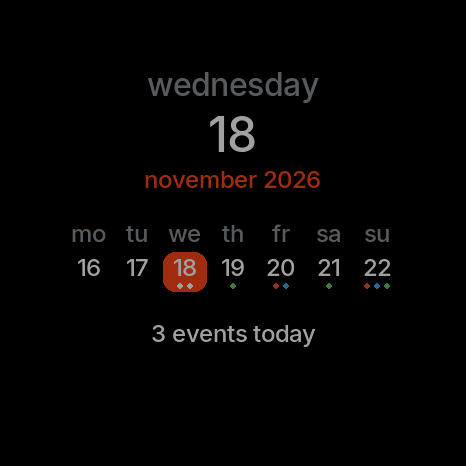
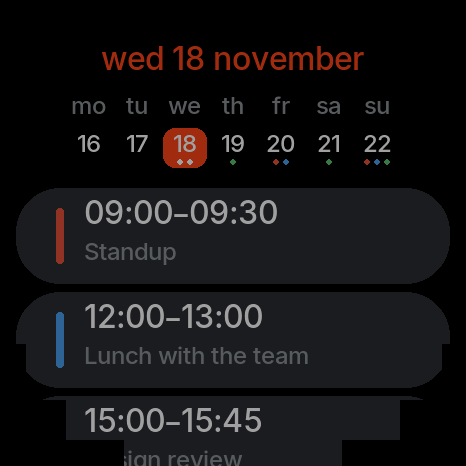
Calendar: the page lists the picked day's events under this week; chevrons smaller and on the title's line
Claude-Session: https://claude.ai/code/session_01CQSU8LQannQ2DZKxpK6vHz

diff --git a/apps/calendar/src/screen.rs b/apps/calendar/src/screen.rs
@@ -1,8 +1,8 @@
 //! The two screens, in the stock look (`cmf_wp2_app::stock`):
 //! - month: the accent month title between `<` and `>`, weekday initials, a 6×7 grid of days with a dot per calendar
 //!   that has an event, today in an accent pill, a summary line under it;
-//! - widget (the page next to the watch face): today's weekday, date and month, this week with its dots, today's
-//!   event count.
+//! - day: a day's events as cards under its date;
+//! - widget (the page next to the watch face): the day screen with this week between the date and the events.
 //!
 //! Each screen is one root object under `ROOT`; leaving it deletes the root and everything in it. A screen is built
 //! hidden, over as many batches as it needs, and shown in the last one.
@@ -139,7 +139,7 @@ fn bare(b: &mut Batch, o: Obj) -> Result<(), LvError> {
     b.flags(o, &[], &[Flag::Scrollable])
 }
 
-/// A full-screen, transparent, hidden root that sends CLICKED (the widget screen's tap).
+/// A full-screen, transparent, hidden root.
 fn root(b: &mut Batch) -> Result<Obj, LvError> {
     let r = b.create(Class::Obj, ROOT)?;
     b.size(r, SCREEN, SCREEN)?;
@@ -226,8 +226,8 @@ fn chevron(b: &mut Batch, flush: &mut Flush, parent: Obj, dir: i16) -> Result<()
     Ok(())
 }
 
-/// Half the chevron's height and its stroke, px: 24 px tall, as in a 32 px icon; a 4 px stroke reads at arm's length.
-const CHEVRON: i16 = 12;
+/// Half the chevron's height and its stroke, px: 20 px tall; a 4 px stroke reads at arm's length.
+const CHEVRON: i16 = 10;
 const STROKE: i32 = 4;
 
 /// A round tap target with a grey chevron; `dir` -1 left, 1 right.
@@ -238,7 +238,8 @@ fn arrow(b: &mut Batch, flush: &mut Flush, parent: Obj, dir: i16, dx: i16) -> Re
     b.style(a, Prop::BgColor, stock::PRESSED, stock::ROW_PRESSED)?;
     b.style(a, Prop::BgOpa, stock::PRESSED, 255)?;
     b.style(a, Prop::Radius, 0, CIRCLE)?;
-    b.align(a, Align::TopMid, dx, TITLE_Y - (ARROW as i16 - 32) / 2)?;
+    // centred on the title's glyphs (digits at y 47-63 in the emulator), not its 32 px line box
+    b.align(a, Align::TopMid, dx, TITLE_Y + 11 - ARROW as i16 / 2)?;
     b.events(a, &[Ev::Clicked])?;
     chevron(b, flush, a, dir)?;
     Ok(a)
@@ -294,61 +295,20 @@ pub fn month_view(b: &mut Batch, flush: &mut Flush, shown: Month, today: Option<
 #[derive(Clone, Copy, Debug)]
 pub struct WidgetView {
     pub root: Obj,
-    pub today: Day,
-}
-
-// widget geometry
-const W_WEEKDAY_Y: i16 = 70;
-const W_DAY_Y: i16 = 104;
-const W_MONTH_Y: i16 = 168;
-const W_INITIALS_Y: i16 = 222;
-const W_WEEK_Y: i32 = 252;
-const W_FOOTER_Y: i16 = 322;
-
-pub fn widget_view(b: &mut Batch, flush: &mut Flush, today: Day, k: &Marks) -> Result<WidgetView, LvError> {
-    room(b, flush)?;
-    let r = root(b)?;
-    b.flags(r, &[Flag::Clickable], &[])?;
-    b.events(r, &[Ev::Clicked])?;
-    let wd = label(b, r, date::WEEKDAY_NAMES[date::weekday(today) as usize], 300, 0, W_WEEKDAY_Y)?;
-    b.style(wd, Prop::TextColor, 0, GREY)?;
-    let day = label(b, r, num(today.day).as_str(), 200, 0, W_DAY_Y)?;
-    b.style(day, Prop::TextFont, 0, F48 as i32)?;
-    let mut t = Line::new();
-    let _ = write!(t, "{} {}", today.month.name(), today.month.year);
-    let mo = label(b, r, t.as_str(), 300, 0, W_MONTH_Y)?;
-    b.style(mo, Prop::TextColor, 0, ACCENT)?;
-    b.style(mo, Prop::TextFont, 0, F24 as i32)?;
-    room(b, flush)?;
-    for (i, w) in date::WEEKDAYS.iter().enumerate() {
-        let l = b.create(Class::Label, r)?;
-        b.size(l, COL_W, CONTENT)?;
-        b.style(l, Prop::TextColor, 0, GREY)?;
-        b.style(l, Prop::TextFont, 0, F24 as i32)?;
-        b.text(l, w)?;
-        b.align(l, Align::TopLeft, (GRID_X + i as i32 * COL_W) as i16, W_INITIALS_Y)?;
-    }
-    for (i, d) in date::week(today).iter().enumerate() {
-        room(b, flush)?;
-        cell(b, r, *d, d.month != today.month, *d == today, k.get(*d), GRID_X + i as i32 * COL_W + 2, W_WEEK_Y)?;
-    }
-    room(b, flush)?;
-    let foot = label(b, r, today_summary(today, k).as_str(), 300, 0, W_FOOTER_Y)?;
-    b.style(foot, Prop::TextFont, 0, F24 as i32)?;
-    b.flags(r, &[], &[Flag::Hidden])?;
-    Ok(WidgetView { root: r, today })
-}
-
-#[derive(Clone, Copy, Debug)]
-pub struct DayView {
-    pub root: Obj,
-    /// Tap: back to the month.
+    /// Tap: the month.
     pub title: Obj,
-    pub day: Day,
+    pub today: Day,
+    /// The day whose events are listed.
+    pub sel: Day,
+    /// `date::week(today)`: a tap lists that day.
+    pub cells: [Obj; 7],
 }
 
 const EVENT_H: i32 = 96;
 const DAY_TOP: i32 = 110;
+// the page: the week under the title, the events under the week
+const W_WEEK_Y: i32 = GRID_Y;
+const W_TOP: i32 = GRID_Y + ROW_H + 16;
 
 /// "09:30–10:00", "all day", or from the start on for one that runs past midnight.
 pub fn span_text(e: &Event) -> Line {
@@ -363,11 +323,8 @@ pub fn span_text(e: &Event) -> Line {
     out
 }
 
-/// One day's events, a crown-scrolled page like the stock lists: the accent date (tap: back to the month), then a
-/// card per event with its calendar's colour, its time and its title ("busy" while the phone keeps titles).
-pub fn day_view<'e>(b: &mut Batch, flush: &mut Flush, day: Day, events: impl Iterator<Item = &'e Event>)
-    -> Result<DayView, LvError> {
-    room(b, flush)?;
+/// A crown-scrolled root with the accent "wed 18 november" title (clickable).
+fn day_root(b: &mut Batch, day: Day) -> Result<(Obj, Obj), LvError> {
     // laid out by hand: stock::page's flex column came out 16 px left in the emulator
     let r = root(b)?;
     b.flags(r, &[Flag::Scrollable], &[])?;
@@ -378,11 +335,18 @@ pub fn day_view<'e>(b: &mut Batch, flush: &mut Flush, day: Day, events: impl Ite
     b.style(title, Prop::TextColor, 0, ACCENT)?;
     b.flags(title, &[Flag::Clickable], &[])?;
     b.events(title, &[Ev::Clicked])?;
+    Ok((r, title))
+}
+
+/// A card per event from `top` down, with its calendar's colour, its time and its title ("busy" while the phone
+/// keeps titles); `empty` when there are none. Then the scroll bar, and the root shown.
+fn event_cards<'e>(b: &mut Batch, flush: &mut Flush, r: Obj, top: i32, events: impl Iterator<Item = &'e Event>,
+    empty: &str) -> Result<(), LvError> {
     let mut n = 0;
     for e in events {
         room(b, flush)?;
         let c = stock::card(b, r, EVENT_H)?;
-        b.align(c, Align::TopMid, 0, (DAY_TOP + n * (EVENT_H + stock::ROW_GAP)) as i16)?;
+        b.align(c, Align::TopMid, 0, (top + n * (EVENT_H + stock::ROW_GAP)) as i16)?;
         let bar = b.create(Class::Obj, c)?;
         b.size(bar, 8, EVENT_H - 40)?;
         b.style(bar, Prop::Radius, 0, CIRCLE)?;
@@ -404,12 +368,64 @@ pub fn day_view<'e>(b: &mut Batch, flush: &mut Flush, day: Day, events: impl Ite
         n += 1;
     }
     if n == 0 {
-        let l = label(b, r, "no events", 300, 0, DAY_TOP as i16)?;
+        let l = label(b, r, empty, 300, 0, top as i16)?;
         b.style(l, Prop::TextColor, 0, GREY)?;
     }
     b.scroll_bar(r)?;
     b.knob(r)?;
-    b.flags(r, &[], &[Flag::Hidden])?;
+    b.flags(r, &[], &[Flag::Hidden])
+}
+
+/// The page next to the watch face: `sel`'s date, this week with its dots (a tap picks a day), and `sel`'s events
+/// under it, scrolled by the crown.
+pub fn widget_view<'e>(b: &mut Batch, flush: &mut Flush, today: Day, sel: Day, k: &Marks,
+    events: impl Iterator<Item = &'e Event>) -> Result<WidgetView, LvError> {
+    room(b, flush)?;
+    let (r, title) = day_root(b, sel)?;
+    for (i, w) in date::WEEKDAYS.iter().enumerate() {
+        let l = b.create(Class::Label, r)?;
+        b.size(l, COL_W, CONTENT)?;
+        b.style(l, Prop::TextColor, 0, GREY)?;
+        b.style(l, Prop::TextFont, 0, F24 as i32)?;
+        b.text(l, w)?;
+        b.align(l, Align::TopLeft, (GRID_X + i as i32 * COL_W) as i16, WEEKDAYS_Y)?;
+    }
+    let mut cells = [ROOT; 7];
+    for (i, d) in date::week(today).iter().enumerate() {
+        room(b, flush)?;
+        let c = cell(b, r, *d, d.month != today.month, *d == today, k.get(*d), GRID_X + i as i32 * COL_W + 2, W_WEEK_Y)?;
+        // every day of the week picks, an empty one too; the picked one sits on the pressed grey
+        b.flags(c, &[Flag::Clickable], &[])?;
+        b.events(c, &[Ev::Clicked])?;
+        b.style(c, Prop::BgColor, stock::PRESSED, stock::ROW_PRESSED)?;
+        b.style(c, Prop::BgOpa, stock::PRESSED, 255)?;
+        b.style(c, Prop::Radius, 0, 12)?;
+        if *d == sel && sel != today {
+            b.style(c, Prop::BgColor, 0, stock::ROW_PRESSED)?;
+            b.style(c, Prop::BgOpa, 0, 255)?;
+        }
+        cells[i] = c;
+    }
+    room(b, flush)?;
+    event_cards(b, flush, r, W_TOP, events, k.note.unwrap_or("no events"))?;
+    Ok(WidgetView { root: r, title, today, sel, cells })
+}
+
+#[derive(Clone, Copy, Debug)]
+pub struct DayView {
+    pub root: Obj,
+    /// Tap: back to the month.
+    pub title: Obj,
+    pub day: Day,
+}
+
+/// One day's events, a crown-scrolled page like the stock lists: the accent date (tap: back to the month), then a
+/// card per event.
+pub fn day_view<'e>(b: &mut Batch, flush: &mut Flush, day: Day, events: impl Iterator<Item = &'e Event>)
+    -> Result<DayView, LvError> {
+    room(b, flush)?;
+    let (r, title) = day_root(b, day)?;
+    event_cards(b, flush, r, DAY_TOP, events, "no events")?;
     Ok(DayView { root: r, title, day })
 }
 
@@ -496,12 +512,13 @@ mod tests {
     #[test]
     fn widget_view_validates() {
         let today = Day { month: m(2026, 12), day: 1 }; // its week starts in November
+        let all: Vec<Event> = (0..32).map(|i| event(i * 30, 30, 0, "Созвон с командой по релизу и обсуждение")).collect();
         for k in [Marks::empty(), busy(today)] {
             let mut t = Table::new();
             let mut b = batch();
             let (v, sizes) = run(&mut t, &mut b, |b, f| {
                 theme(b)?;
-                widget_view(b, f, today, &k)
+                widget_view(b, f, today, today, &k, all.iter())
             });
             std::println!("widget view: {sizes:?} B");
             run(&mut t, &mut b, |b, _| leave(b, v.root));

diff --git a/apps/calendar/src/main.rs b/apps/calendar/src/main.rs
@@ -99,8 +99,15 @@ mod device {
 
     enum Want {
         Month(Month),
+        /// The page, listing that day of this week.
         Widget(Day),
         Day(Day),
+    }
+
+    /// The phone's events that start on `d`.
+    fn events(m: &Model, w: i32, today: Option<Day>, d: Day) -> impl Iterator<Item = &crate::rpc::Event> {
+        let off = crate::marks::day_no(d) - today.map_or(0, crate::marks::day_no);
+        (0..m.n).filter(move |&i| m.span(i, w).0 == off).map(move |i| &m.events[i])
     }
 
     struct App {
@@ -119,17 +126,16 @@ mod device {
             let lv = self.lv;
             let mut flush = |b: &mut Batch| b.submit(&lv);
             let old = self.view.root();
+            let (m, w, today) = (&*self.model, wall(self.api).unwrap_or(0), self.today);
             let r = screen::leave(&mut self.b, old).and_then(|_| match want {
                 Want::Month(m) => {
                     screen::month_view(&mut self.b, &mut flush, m, self.today, &self.marks).map(View::Month)
                 }
-                Want::Widget(d) => screen::widget_view(&mut self.b, &mut flush, d, &self.marks).map(View::Widget),
-                Want::Day(d) => {
-                    let (m, w) = (&*self.model, wall(self.api).unwrap_or(0));
-                    let off = crate::marks::day_no(d) - self.today.map_or(0, crate::marks::day_no);
-                    let events = (0..m.n).filter(move |&i| m.span(i, w).0 == off).map(move |i| &m.events[i]);
-                    screen::day_view(&mut self.b, &mut flush, d, events).map(View::Day)
+                Want::Widget(d) => {
+                    let t = self.today.unwrap_or(d);
+                    screen::widget_view(&mut self.b, &mut flush, t, d, &self.marks, events(m, w, today, d)).map(View::Widget)
                 }
+                Want::Day(d) => screen::day_view(&mut self.b, &mut flush, d, events(m, w, today, d)).map(View::Day),
             });
             let r = match r {
                 Ok(v) => {
@@ -154,7 +160,9 @@ mod device {
             let want = match self.view {
                 View::Month(v) => Want::Month(v.shown),
                 View::Day(v) => Want::Day(v.day),
-                View::Widget(_) => match self.today {
+                // the picked day stays while it's still this week's
+                View::Widget(v) => match self.today {
+                    Some(_) if Some(v.today) == self.today => Want::Widget(v.sel),
                     Some(d) => Want::Widget(d),
                     None => Want::Month(FALLBACK),
                 },
@@ -294,7 +302,12 @@ mod device {
                             }
                         }
                         View::Day(v) if h == v.title.0 => app.show(Want::Month(v.day.month)),
-                        View::Widget(w) if h == w.root.0 => app.show(Want::Month(w.today.month)),
+                        View::Widget(w) if h == w.title.0 => app.show(Want::Month(w.today.month)),
+                        View::Widget(w) => {
+                            if let Some(i) = w.cells.iter().position(|c| c.0 == h) {
+                                app.show(Want::Widget(crate::date::week(w.today)[i]));
+                            }
+                        }
                         _ => {}
                     }
                 }

diff --git a/apps/calendar/src/marks.rs b/apps/calendar/src/marks.rs
@@ -57,11 +57,6 @@ impl Marks {
         k
     }
 
-    /// Whether `d` is in the phone's window (its events are known).
-    pub fn known(&self, d: Day) -> bool {
-        self.note.is_none() && (0..DAYS as i32).contains(&(day_no(d) - self.from))
-    }
-
     /// The day's mark; empty outside the phone's window.
     pub fn get(&self, d: Day) -> Mark {
         usize::try_from(day_no(d) - self.from).ok().and_then(|i| self.days.get(i)).copied().unwrap_or_default()

diff --git a/apps/calendar/store.md b/apps/calendar/store.md
@@ -2,8 +2,8 @@ A month calendar for the wrist. Today sits in an accent pill, and each day of th
 in its calendar's colour (up to three per day). Turn the crown or tap **<** and **>** to change the month; tap the
 month's name to come back to today. Tap a day with dots to see its events: time, calendar colour and title.
 
-It can also live next to the watch face: long-press **Calendar** in Apps and choose **Add page** for a full-screen view
-of today and this week, or **Add widget** for a card with the date and today's event count.
+It can also live next to the watch face: long-press **Calendar** in Apps and choose **Add page** for today's events under this
+week (tap a day of the week for its events, the crown scrolls them), or **Add widget** for a card with the date and today's event count.
 
 The events come from your phone: the watch asks when you open the app and every 5 minutes while it runs, and keeps the
 last answer. The phone sends the next 7 days, so days further on have no dots.
